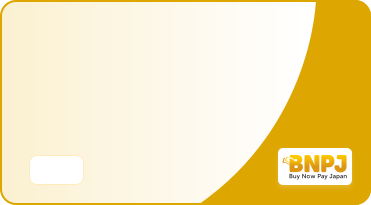
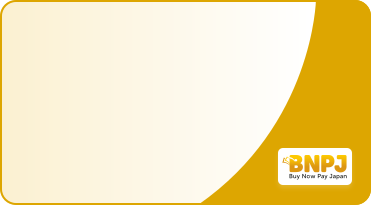
bnpj card layout changed, dismiss keyboard in webview

Changed region(s): [[0.0593, 0.7317, 0.2372, 0.9073]]

diff --git a/lib/ui/pages/coupons/tab_pages/coupon_detail.dart b/lib/ui/pages/coupons/tab_pages/coupon_detail.dart
@@ -260,37 +260,38 @@ class _CouponDetailState extends State<CouponDetail> {
                       ),
                     ),
                     const SizedBox(width: 10),
-                    Expanded(
-                      child: Container(
-                        padding: const EdgeInsets.symmetric(
-                            horizontal: 16.0, vertical: 10.0),
-                        decoration: BoxDecoration(
-                          color: Palette.primary,
-                          borderRadius: BorderRadius.circular(5),
-                        ),
-                        child: Column(
-                          crossAxisAlignment: CrossAxisAlignment.start,
-                          children: [
-                            Text(
-                              "Cashback",
-                              style: TextStyle(
-                                color: Palette.white,
-                                fontSize: 10,
-                                fontWeight: FontWeight.w500,
+                    if (!(widget.coupon.isReward ?? false))
+                      Expanded(
+                        child: Container(
+                          padding: const EdgeInsets.symmetric(
+                              horizontal: 16.0, vertical: 10.0),
+                          decoration: BoxDecoration(
+                            color: Palette.primary,
+                            borderRadius: BorderRadius.circular(5),
+                          ),
+                          child: Column(
+                            crossAxisAlignment: CrossAxisAlignment.start,
+                            children: [
+                              Text(
+                                "Cashback",
+                                style: TextStyle(
+                                  color: Palette.white,
+                                  fontSize: 10,
+                                  fontWeight: FontWeight.w500,
+                                ),
                               ),
-                            ),
-                            Text(
-                              "${widget.coupon.cashback}%",
-                              style: TextStyle(
-                                color: Palette.white,
-                                fontSize: 12,
-                                fontWeight: FontWeight.bold,
+                              Text(
+                                "${widget.coupon.cashback}%",
+                                style: TextStyle(
+                                  color: Palette.white,
+                                  fontSize: 12,
+                                  fontWeight: FontWeight.bold,
+                                ),
                               ),
-                            ),
-                          ],
+                            ],
+                          ),
                         ),
                       ),
-                    ),
                   ],
                 ),
                 const SizedBox(height: 10),

diff --git a/lib/ui/pages/add_balance/payment_page/prabhu_pay/prabhu_pay_page.dart b/lib/ui/pages/add_balance/payment_page/prabhu_pay/prabhu_pay_page.dart
@@ -58,18 +58,20 @@ class PrabhuPayTopupPage extends StatelessWidget {
           initial: (_) {},
           loading: (_) {},
           success: (success) async {
+            final flushbar = FlushbarHelper.createInformation(
+                message: "Please don't exit this page!",
+                duration: const Duration(seconds: 20));
             final successResult = await context.pushRoute(AppWebViewRoute(
                 url: success.url,
                 title: 'Prabhu Pay',
                 urlListner: (url) async {
                   if (url == method.deliveryUrl) {
-                    FlushbarHelper.createInformation(
-                            message: "Please don't exit this page!",
-                            duration: const Duration(seconds: 6))
-                        .show(context);
+                    flushbar.show(context);
                   }
 
                   if (url.toLowerCase().contains('status=success')) {
+                    flushbar.dismiss();
+
                     context.popRoute(true);
                   }
                 }));

diff --git a/lib/ui/pages/webview/app_web_view.dart b/lib/ui/pages/webview/app_web_view.dart
@@ -1,6 +1,5 @@
-import 'dart:async';
-
 import 'package:flutter/material.dart';
+import 'package:flutter/services.dart';
 import 'package:wallet_app/ui/widgets/widgets.dart';
 import 'package:webview_flutter/webview_flutter.dart';
 
@@ -45,6 +44,8 @@ class _AppWebViewState extends State<AppWebViewPage> {
             initialUrl: widget.url,
             javascriptMode: JavascriptMode.unrestricted,
             onPageStarted: (url) {
+              SystemChannels.textInput
+                  .invokeMethod('TextInput.hide'); //dismiss keyboard
               if (widget.urlListner != null) {
                 widget.urlListner!(url);
               }

diff --git a/lib/ui/pages/transactions/bnpj_card.dart b/lib/ui/pages/transactions/bnpj_card.dart
@@ -133,7 +133,7 @@ class BNPJCard extends StatelessWidget {
                 fontWeight: FontWeight.w500,
               ),
             ),
-          const SizedBox(height: 30),
+          const SizedBox(height: 72),
           Text(
             "${userDetail?.firstName ?? ""} ${userDetail?.lastName ?? ""}",
             style: const TextStyle(
